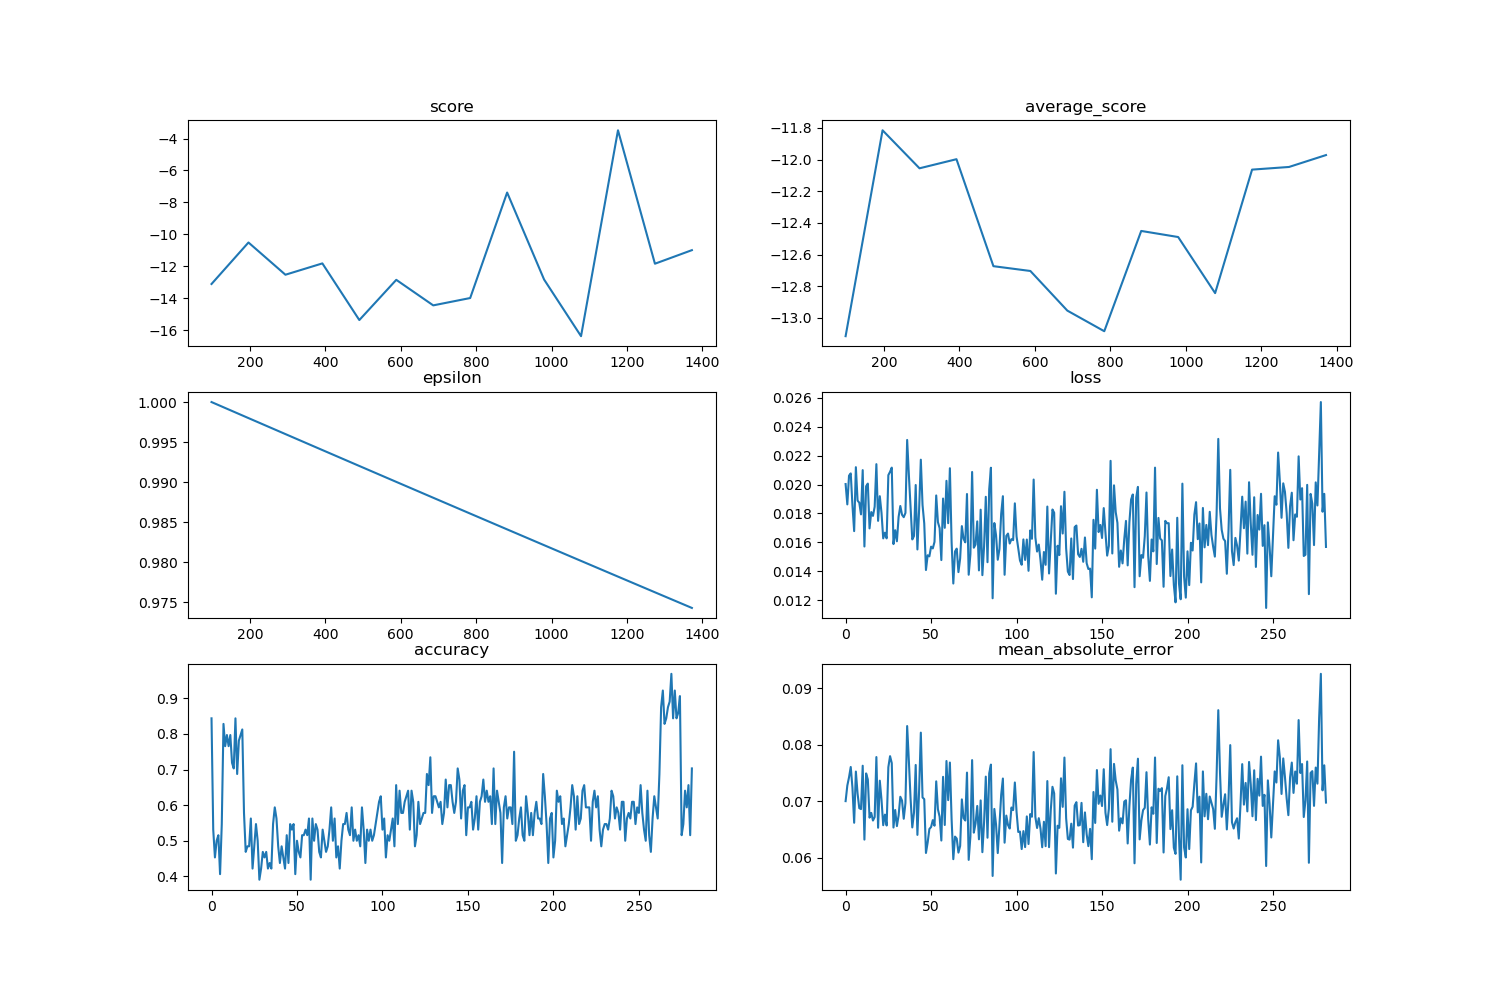
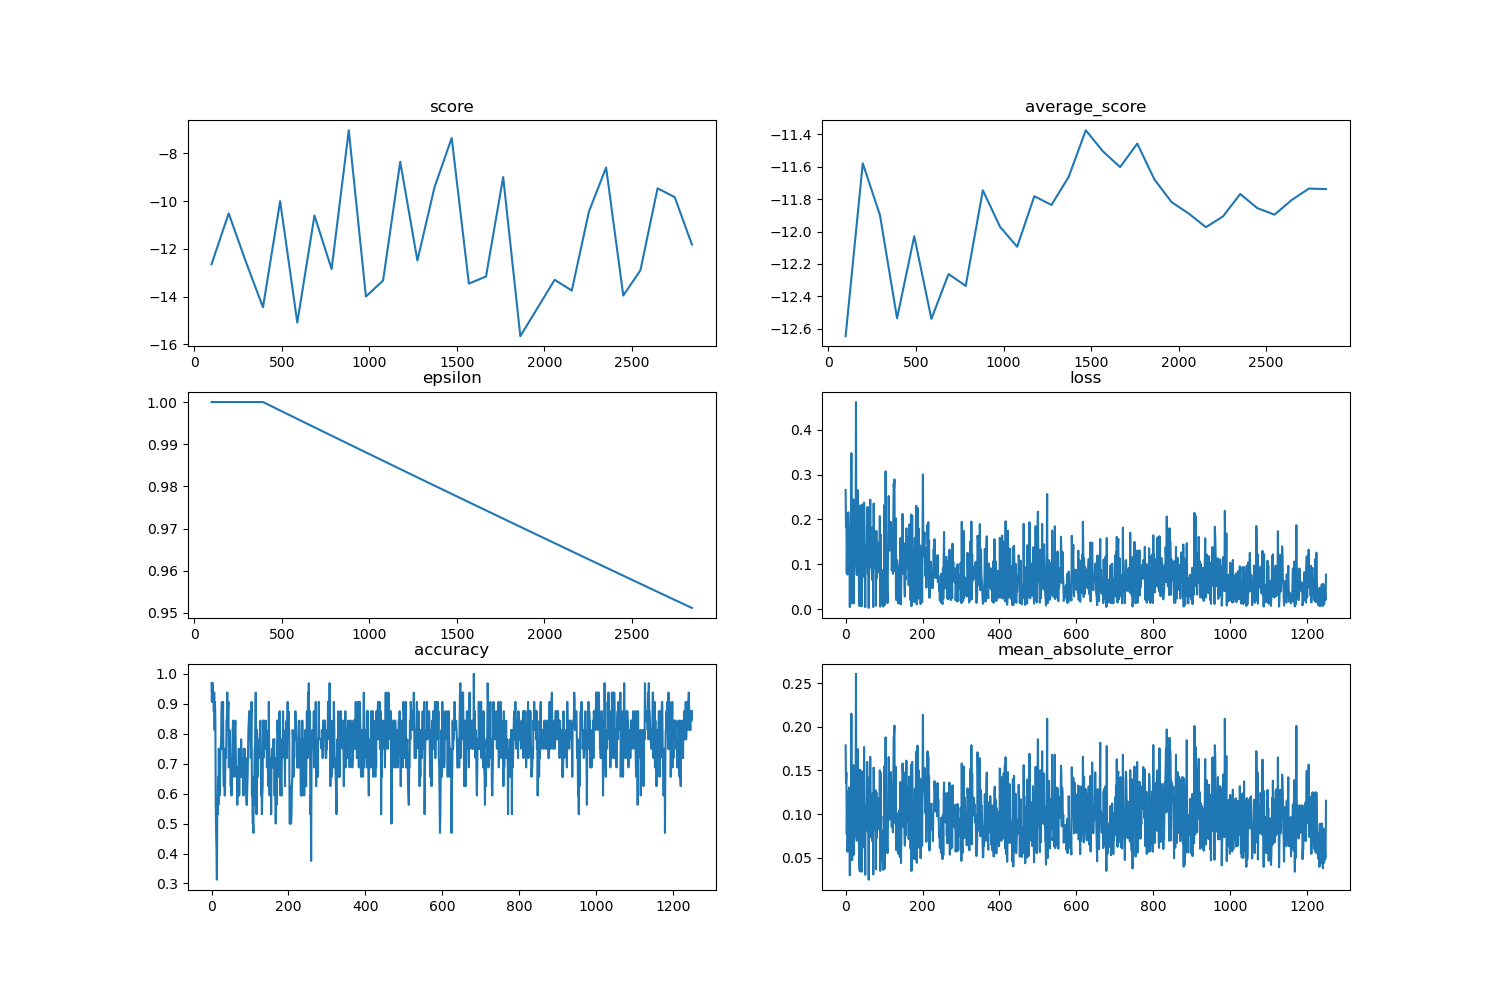
_

diff --git a/Models.py b/Models.py
@@ -31,7 +31,11 @@ import plotly.graph_objs as go
 import plotly.figure_factory as FF
 from icecream import ic
 from keras.layers.advanced_activations import PReLU,LeakyReLU
- 
+physical_devices = tf.config.list_physical_devices('GPU')
+tf.config.LogicalDeviceConfiguration(
+    memory_limit=None, experimental_priority=None
+)
+
 
 HUBER_LOSS_DELTA = 1.2
 
@@ -54,24 +58,34 @@ def gelu(x):
 
 def build_1CNNBase(self, action_space=6, dueling=True):
         self.network_size = 256
-        X_input = Input(shape=(self.REM_STEP*54,))
-        input_reshape=(self.REM_STEP,54)
+        X_input = Input(shape=(self.REM_STEP*99) )
+        # X_input = Input(shape=(self.REM_STEP*7,))
+        input_reshape=(self.REM_STEP,99)
         X = X_input
         truncatedn_init = initializers.TruncatedNormal(0, 1e-2)
         x_init = "he_uniform"
         y_init = initializers.glorot_uniform()
+        const_init = initializers.constant(1e-2)        
+        X_reshaped = Reshape(input_reshape)(X_input)
 
-        const_init = initializers.constant(1e-2)
-    
-        X = X_input 
-        X = Reshape(input_reshape)(X)    
+        # slice2 = Permute((2,1))(slice2)
+        #normailsation fort each dimension 
+        normlayer_1 = LayerNormalization( 
+                axis=1,trainable=True,epsilon =0.001,center=True,
+                scale=True,
+                beta_initializer="zeros",
+                gamma_initializer="ones") 
+        normlayer_2 = LayerNormalization( 
+                axis=2,trainable=True,epsilon =0.001,center=True,
+                scale=True,
+                beta_initializer="zeros",
+                gamma_initializer="ones")  
 
+        X = normlayer_2(X_reshaped)
         cnn1 = TimeDistributed(Dense(64, activation =PReLU(), kernel_initializer='he_uniform',))(X) 
         cnn1 = TimeDistributed(Dense(64, activation =PReLU(),kernel_initializer='he_uniform',))(cnn1) 
-        cnn1 = LocallyConnected1D(filters=64,  kernel_size=4, activation =PReLU(),kernel_initializer='he_uniform')(cnn1)
         cnn1 = Flatten()(cnn1)
-        cnn1 = Dense(512,activation="relu", kernel_initializer='he_uniform', )(cnn1)
-        cnn1 = Dense(256,activation="relu", kernel_initializer='he_uniform', )(cnn1) 
+     
 
         # cnn2 = TimeDistributed(Dense(64, kernel_initializer='he_uniform',))(X) 
         # cnn2 = LeakyReLU(.4)(cnn2)
@@ -84,19 +98,9 @@ def build_1CNNBase(self, action_space=6, dueling=True):
         # cnn2 = Dense(128,activation="relu", kernel_initializer='he_uniform', )(cnn2)
         # cnn2 = Flatten()(cnn2)
 
-        cnn3 = LocallyConnected1D(filters=32, kernel_initializer='he_uniform', kernel_size=3)(X)
-        cnn3 = gelu(cnn3)
-        cnn3 = Conv1D(filters=64, kernel_initializer='he_uniform', padding="same", kernel_size=2)(cnn3)        
-        cnn3 = gelu(cnn3)
-        cnn3 = MaxPooling1D(pool_size=(2))(cnn3)
-        cnn3 = Dropout(0.15)(cnn3)
-        cnn3 = Flatten()(cnn3)
-        cnn3 = Dense(128,activation="relu", kernel_initializer='he_uniform', )(cnn3)
-     
-        merge = concatenate([cnn1,cnn3])
 
         X = Dense(self.network_size*2, 
-                  kernel_initializer='he_uniform',activation ="relu")(merge) 
+                  kernel_initializer='he_uniform',activation ="relu")(cnn1) 
  
         X = Dense(self.network_size, 
                   kernel_initializer='he_uniform',activation ="relu")(X)
@@ -118,8 +122,9 @@ def build_1CNNBase(self, action_space=6, dueling=True):
                       kernel_initializer='he_uniform')(X)
 
         model = Model(inputs=X_input, outputs=X, name='build_TMaxpoolin_3')
-        model.compile(loss=huber_loss, optimizer=Adam(
-            lr=self.learning_rate),  metrics=["accuracy"])
+        model.compile(loss=tf.keras.losses.Huber(delta=3), metrics=['mean_absolute_error','accuracy'] ,optimizer=Adam(
+            lr=self.learning_rate))
+
 
         # model.compile(loss="mean_squared_error", optimizer=Adam(lr=0.00025,epsilon=0.01), metrics=["accuracy"])
         model.summary()
@@ -179,21 +184,32 @@ def build_modelPar1(self, dueling=True):
         model.summary()
         return model
 
-def build_Parrallel_64(self):
+def build_Parrallel_64(self): 
         self.network_size = 256
-        X_input = Input(shape=(self.state_space,))
-        input_reshape=((self.REM_STEP,-1))
+        X_input = Input(shape=(self.REM_STEP*99) )
+        # X_input = Input(shape=(self.REM_STEP*7,))
+        input_reshape=(self.REM_STEP,99)
+        X = X_input
         truncatedn_init = initializers.TruncatedNormal(0, 1e-2)
-        
         x_init = "he_uniform"
-
         y_init = initializers.glorot_uniform()
-        const_init = initializers.constant(1e-2)
+        const_init = initializers.constant(1e-2)        
+        X_reshaped = Reshape(input_reshape)(X_input)
 
-    
-        X = X_input  
-        t = Reshape(input_reshape)(X_input)
- 
+        # slice2 = Permute((2,1))(slice2)
+        #normailsation fort each dimension 
+        normlayer_1 = LayerNormalization( 
+                axis=1,trainable=True,epsilon =0.001,center=True,
+                scale=True,
+                beta_initializer="zeros",
+                gamma_initializer="ones") 
+        normlayer_2 = LayerNormalization( 
+                axis=2,trainable=True,epsilon =0.001,center=True,
+                scale=True,
+                beta_initializer="zeros",
+                gamma_initializer="ones")  
+
+        x = normlayer_2(X_reshaped)
         x = Dense(64,
                   kernel_initializer=x_init)(x)     
         x = gaussian(x)
@@ -299,9 +315,8 @@ def FCTime_distributed_model(self, action_space=6, dueling=True):
         # TD1 = TimeDistributed(Dense(32, activation = "tanh",bias_initializer=const_init,kernel_initializer=y_init, use_bias=True))(TD1) 
         # TD1 = Reshape((2,-1))(TD1)        
         TD1 = Flatten()(TD1) 
-        TD1 = Dense(64, activation = "tanh", kernel_initializer=y_init, bias_initializer=const_init, use_bias=True)(TD1) 
-        TD1 = Dense(32, activation = "tanh", kernel_initializer=y_init,bias_initializer=const_init,use_bias=True )(TD1) 
-        TD1 = Dense(16, activation = "tanh", kernel_initializer=y_init,bias_initializer=const_init,use_bias=True )(TD1)
+        TD1 = Dense(32, activation = "relu", kernel_initializer=y_init, bias_initializer=const_init, use_bias=True)(TD1) 
+        TD1 = Dense(32, activation = "relu", kernel_initializer=y_init,bias_initializer=const_init,use_bias=True )(TD1) 
         
 
 
@@ -323,9 +338,8 @@ def FCTime_distributed_model(self, action_space=6, dueling=True):
         # TD2 = TimeDistributed(Dense(32, activation =PReLU(), bias_initializer=const_init,kernel_initializer=y_init,use_bias=True))(TD2) 
         # TD2 = Reshape((2,-1))(TD2)         
         TD2 = Flatten()(TD2)     
-        TD2 = Dense(64, activation = LeakyReLU(.1), kernel_initializer=y_init,bias_initializer=const_init,use_bias=True )(TD2) 
-        TD2 = Dense(32, activation = LeakyReLU(.1) ,kernel_initializer=y_init ,bias_initializer=const_init,use_bias=True)(TD2) 
-        TD2 = Dense(16, activation = LeakyReLU(.1), kernel_initializer=y_init,bias_initializer=const_init,use_bias=True )(TD2)
+        TD2 = Dense(16, activation ="relu", kernel_initializer=y_init,bias_initializer=const_init,use_bias=True )(TD2) 
+        TD2 = Dense(32, activation = "relu" ,kernel_initializer=y_init ,bias_initializer=const_init,use_bias=True)(TD2) 
         # 
 
         slice4 = tf.slice(X_reshaped,[0,0,14],[-1,2,25])
@@ -347,9 +361,8 @@ def FCTime_distributed_model(self, action_space=6, dueling=True):
         # TD3 = TimeDistributed(Dense(32, activation =PReLU(), kernel_initializer=y_init,bias_initializer=const_init,use_bias=True))(TD3) 
         # TD3 = Reshape((2,-1))(TD3)
         TD3 = Flatten()(TD3) 
-        TD3 = Dense(64, activation = LeakyReLU(.1),kernel_initializer=y_init,bias_initializer=const_init,use_bias=True )(TD3) 
-        TD3 = Dense(32, activation = LeakyReLU(.1),kernel_initializer=y_init,bias_initializer=const_init, use_bias=True)(TD3) 
-        TD3 = Dense(16, activation = LeakyReLU(.1), kernel_initializer=y_init,bias_initializer=const_init,use_bias=True )(TD3)
+        TD3 = Dense(32, activation = "relu",kernel_initializer=y_init,bias_initializer=const_init,use_bias=True )(TD3) 
+        TD3 = Dense(64, activation ="relu",kernel_initializer=y_init,bias_initializer=const_init, use_bias=True)(TD3) 
         # 
   
         slice5 = tf.slice(X_reshaped,[0,0,39],[-1,2,-1])
@@ -372,17 +385,15 @@ def FCTime_distributed_model(self, action_space=6, dueling=True):
         # TD4 = TimeDistributed(Dense(32, activation = PReLU() ,kernel_initializer=y_init,bias_initializer=const_init,use_bias=True))(TD4) 
         # TD4 = Reshape((2,-1))(TD4)        "relu", 
         TD4 = Flatten()(TD4) 
-        TD4 = Dense(64, activation = LeakyReLU(.1), kernel_initializer=y_init,bias_initializer=const_init,use_bias=True )(TD4)
-        TD4 = Dense(32, activation = LeakyReLU(.1), kernel_initializer=y_init,bias_initializer=const_init,use_bias=True )(TD4)  
-        TD4 = Dense(16, activation = LeakyReLU(.1), kernel_initializer=y_init,bias_initializer=const_init,use_bias=True )(TD4)
+        TD4 = Dense(32, activation =  "relu", kernel_initializer=y_init,bias_initializer=const_init,use_bias=True )(TD4)
+        TD4 = Dense(64, activation = "relu", kernel_initializer=y_init,bias_initializer=const_init,use_bias=True )(TD4)  
         # 
         # R1=LSTM(64)(X_reshaped)# cnn1 = Conv1D(filters=64,  kernel_size=(2),activation =LeakyReLU(.4),kernel_initializer=y_init,use_bias=True)(cnn1)          
         
         concatenated = Concatenate()([TD4,TD3,TD2,TD1])
         cnn1 = Flatten()(concatenated) 
         cnn1 = Dense(512,kernel_initializer=y_init, activation ="relu",bias_initializer=const_init,use_bias=True )(cnn1)
-        cnn1 = Dense(256,kernel_initializer=y_init, activation ="relu",bias_initializer=const_init,use_bias=True )(cnn1)   
-        cnn1 = Dense(256,kernel_initializer=y_init, activation ="relu",bias_initializer=const_init,use_bias=True )(cnn1)     
+        cnn1 = Dense(256,kernel_initializer=y_init, activation ="relu",bias_initializer=const_init,use_bias=True )(cnn1)    
         X= cnn1
  
                          
@@ -399,12 +410,11 @@ def FCTime_distributed_model(self, action_space=6, dueling=True):
         # # Hidden layer with 64 nodes
         # X = Dense(64, activation="relu", kernel_initializer=truncatedn_init, bias_initializer=const_init)(X)
         if dueling:
-            state_value = Dense(1, kernel_initializer=y_init,bias_initializer=const_init,use_bias=True)(X)
+            state_value = Dense(1)(X)
             state_value = Lambda(lambda s: K.expand_dims(
                 s[:, 0], -1), output_shape=(action_space,))(state_value)
 
-            action_advantage = Dense(
-                action_space, kernel_initializer=y_init, bias_initializer=const_init,use_bias=True)(X)
+            action_advantage = Dense(action_space)(X)
             action_advantage = Lambda(lambda a: a[:, :] - K.mean(
                 a[:, :], keepdims=True), output_shape=(action_space,))(action_advantage)
 
@@ -415,7 +425,7 @@ def FCTime_distributed_model(self, action_space=6, dueling=True):
                       kernel_initializer='he_uniform')(X)
 
         model = Model(inputs=X_input, outputs=X, name='Hydra-4')
-        model.compile(loss=tf.keras.losses.Huber(delta=30), metrics=['mean_absolute_error','accuracy'] ,optimizer=Adam(
+        model.compile(loss=tf.keras.losses.Huber(delta=3), metrics=['mean_absolute_error','accuracy'] ,optimizer=Adam(
             lr=self.learning_rate))
 
         # model.compile(loss="mean_squared_error", optimizer=Adam(lr=0.00025,epsilon=0.01), metrics=["accuracy"])

diff --git a/DQN_agent.py b/DQN_agent.py
@@ -58,20 +58,21 @@ class DQN:
         self.gamma = .9994
         self.batch_size = 64
         self.epsilon_decay = 0.998# 0.999998  (98 *4)
-        self.epsilon_decay_episodes =   1000
+        self.epsilon_decay_episodes =1000
         self.epsilon_log = []
         # self.burn_limit = .001
-        self.learning_rate = 0.0025 
+        self.learning_rate = 0.001 
         self.replay_freq = 1
-        self.start_episode =2
+        self.start_episode =0
+        self.tau =.1
         self.update_step =4
-        self.target_update_step =1000
-        self.memory = Memory(1000)
+        self.target_update_step = 250       
+        self.t_count =0
+        self.memory = Memory(1000000)
         self.optimizer_model = 'RMSProp'#not in use
         self.log_data=[]
         self.log_history=[]
         self.epsilons = np.linspace(self.epsilon, self.epsilon_min, self.epsilon_decay_episodes)# The epsilon decay schedule
-        self.training_count  = 0 
         if model == None:
             self.model = self.build_model()  # dfault _model
             self.target_model = self.build_model()
@@ -86,14 +87,25 @@ class DQN:
         self.savedir = "savedModels/"+self.model.name+"/"+time_().strftime("%m%d%h")+"/"
     
     def build_model(self):
-              return FCTime_distributed_model(self)
+              return build_1CNNBase(self)
 
     def memorize(self, state, action, reward, next_state, done):
         # Calculate TD-Error for Prioritized Experience Replay
-            td_error = reward + self.gamma * np.argmax(self.model.predict(next_state)[0]) - np.argmax(
-                self.model.predict(state)[0])
-            # Save TD-Error into Memory
-            self.memory.add(td_error, (state, action, reward, next_state, done))
+            # td_error = reward + self.gamma * np.argmax(self.model.predict(next_state)[0]) - np.argmax(
+            #     self.target.predict(state)[0])
+            # # Save TD-Error into Memory
+            # self.memory.add(td_error, (state, action, reward, next_state, done))
+            target = self.model.predict(state,batch_size=1)
+            old_val = target[0][action]
+            target_val = self.target_model.predict(next_state,batch_size=1).data
+            if done:
+                target[0][action] = reward
+            else:
+                target[0][action] = reward + self.gamma * np.argmax(target_val)
+
+            error = abs(old_val - target[0][action])
+
+            self.memory.add(error, (state, action, reward, next_state, done))
 
     def act(self, state):
             if np.random.rand() <= self.epsilon:  # Exploration
@@ -103,14 +115,16 @@ class DQN:
                 return random.randrange(self.action_space)            
             act_values = self.model.predict(state, batch_size=1)
             return np.argmax(act_values[0])  # returns action (Exploitation)
-
+    temp= 0
     def decrement_epsilon(self):
+        if self.t_count==0:
+            temp = total_t
         if self.epsilon > self.epsilon_min:
             # if self.currEpisode  > self.epsilon_decay_episodes/2:
                 try : 
-                    if DQN.currEpisode >= DQN.startEpisode: # Epsilon Update
+                    if DQN.currEpisode >= self.start_episode: # Epsilon Update
                     #  self.epsilon *= self.epsilon_decay
-                       self.epsilon = self.epsilons[DQN.currEpisode - DQN.startCheckPoint]
+                       self.epsilon = self.epsilons[DQN.currEpisode- self.start_episode-0]
                 except:
                        self.epsilon *= self.epsilon_decay
                        pass
@@ -120,15 +134,24 @@ class DQN:
                     return 
         self.epsilon = 0.1
 
+    def update_target_model(self):
+        q_network_theta = self.model.get_weights()
+        target_model_theta = self.target_model.get_weights()
+        counter = 0
+        for q_weight, target_weight in zip(q_network_theta,target_model_theta):
+            target_weight = target_weight * (1-self.tau ) + q_weight * self.tau 
+            target_model_theta[counter] = target_weight
+            counter += 1
+        self.target_model.set_weights(target_model_theta)
+
     def reset_target_network(self):
         """
         Updates the target DQN with the current weights of the main DQN.
         """ 
-        self.target_model.set_weights(self.DQN.model.get_weights())
+        self.target_model.set_weights(self.model.get_weights())
+
 
     def replay(self):
-            if self.memory.tree.n_entries < self.batch_size:
-                return
             
             global data_history
         # Train the model for one epoch 
@@ -153,16 +176,15 @@ class DQN:
             dones = np.array([i[4] for i in minibatch])
             states = np.squeeze(states)
             next_states = np.squeeze(next_states)
-            targets = (rewards*1) + self.gamma * \
-                (np.amax(self.target_model.predict(next_states), axis=1))*(1-dones)
-            targets_full = self.model.predict(states)
+            targets = (rewards*1) + self.gamma * (np.amax(self.target_model.predict_on_batch(next_states), axis=1))*(1-dones)
+            targets_full = self.model.predict_on_batch(states)
             ind = np.array([i for i in range(self.batch_size)])
             targets_full[[ind], [actions]] = targets
-            history = self.model.fit(states, targets_full, verbose=0, sample_weight = is_weight, batch_size=self.batch_size) 
+            history = self.model.fit(states, targets_full, verbose=0,sample_weight=is_weight) 
             temp = {'loss':history.history['loss'][0], 'accuracy': history.history['accuracy'][0], 'mean_absolute_error': history.history['mean_absolute_error'][0]}                   
-            data_history=data_history.append(temp,ignore_index=True,sort=False)
-            self.training_count +=1
-                 
+            data_history=data_history.append(temp,ignore_index=True,sort=False)          
+           
+            self.t_count +=1  
 
 total_t =0
 score = 0
@@ -218,7 +240,7 @@ def train_dqn(episode,  graphics=True, ch=300,  lchk=0, model=None, ):
     agent.env_name = "StarShip" 
     global score
     global total_t 
-    for e in range(lchk-1, episode):            
+    for e in range(lchk, episode):            
   
         score = 0
         DQN.currEpisode = e
@@ -238,20 +260,18 @@ def train_dqn(episode,  graphics=True, ch=300,  lchk=0, model=None, ):
             reward, next_state, done = env.step(action) 
             funcs = [lambda: (np.reshape(next_state, (1, state_space ))), lambda: (
                 np.reshape(next_state, (1, len(next_state))))]
-            next_state = funcs[0]()
-            clipped_reward = np.clip(reward, -1, 1) 
-            agent.memorize(state, action, clipped_reward, next_state, done)
+            next_state = funcs[0]() 
+            agent.memorize(state, action, reward, next_state, done)
             state = next_state      
             score += reward
           
             #appe6nd to lists 
-            if total_t%agent.update_step== 0 and e >= agent.start_episode:
-                    agent.replay()
-                    if agent.training_count % agent.target_update_step == 0 and agent.training_count >= agent.target_update_step:
+            if total_t%agent.update_step== 0 and e - lchk >= agent.start_episode:
+                    agent.replay()                      
+                    if agent.t_count%agent.target_update_step ==0 and agent.t_count >= agent.target_update_step:
                         agent.reset_target_network()
-            if done:
-                    if total_t%agent.update_step!=0:
-                       agent.replay()  
+                        print("Target Network updated!")         
+            if done:               
                     saveResults(agent,e)
                     if env.save:
                         saveModel(obj=agent,data=data,score=score,checkpoint= lchk)      
@@ -262,9 +282,10 @@ def train_dqn(episode,  graphics=True, ch=300,  lchk=0, model=None, ):
                         env.plot = False                    
                     print("episode: {}/{}, score:  {:.3f}, average: {:.3f}, epsilon: {:.3f} total_t: {}".format(e,
                                                                                 episode, data['score'].values[-1],  data['average_score'].values[-1],agent.epsilon,total_t))
-                    agent.decrement_epsilon()
+        
                     break          
             total_t+=1
+            agent.decrement_epsilon()                    
                    
         if DQN.currEpisode % ch == 0:
                 saveModel(obj=agent,data=data,score=score,checkpoint= 0) 

diff --git a/tempCodeRunnerFile.py b/tempCodeRunnerFile.py
@@ -1,2 +1,1 @@
-- {  " + args.model + "  }  has been loaded! ")                      
-                        ans = input("Are yo
+ha
